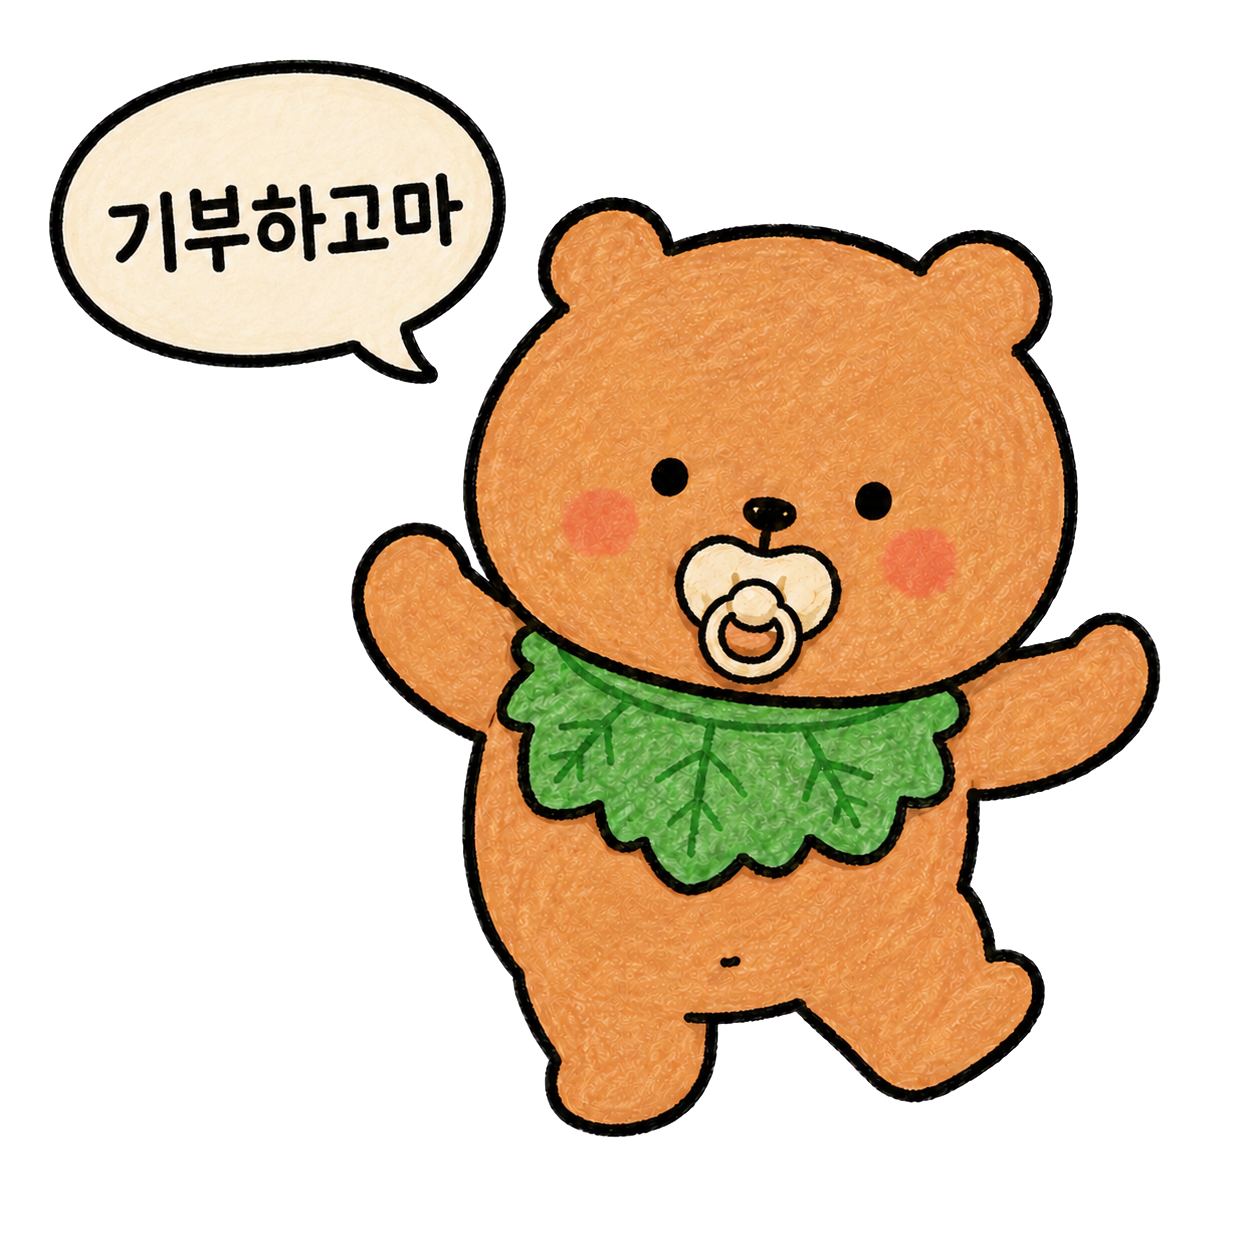
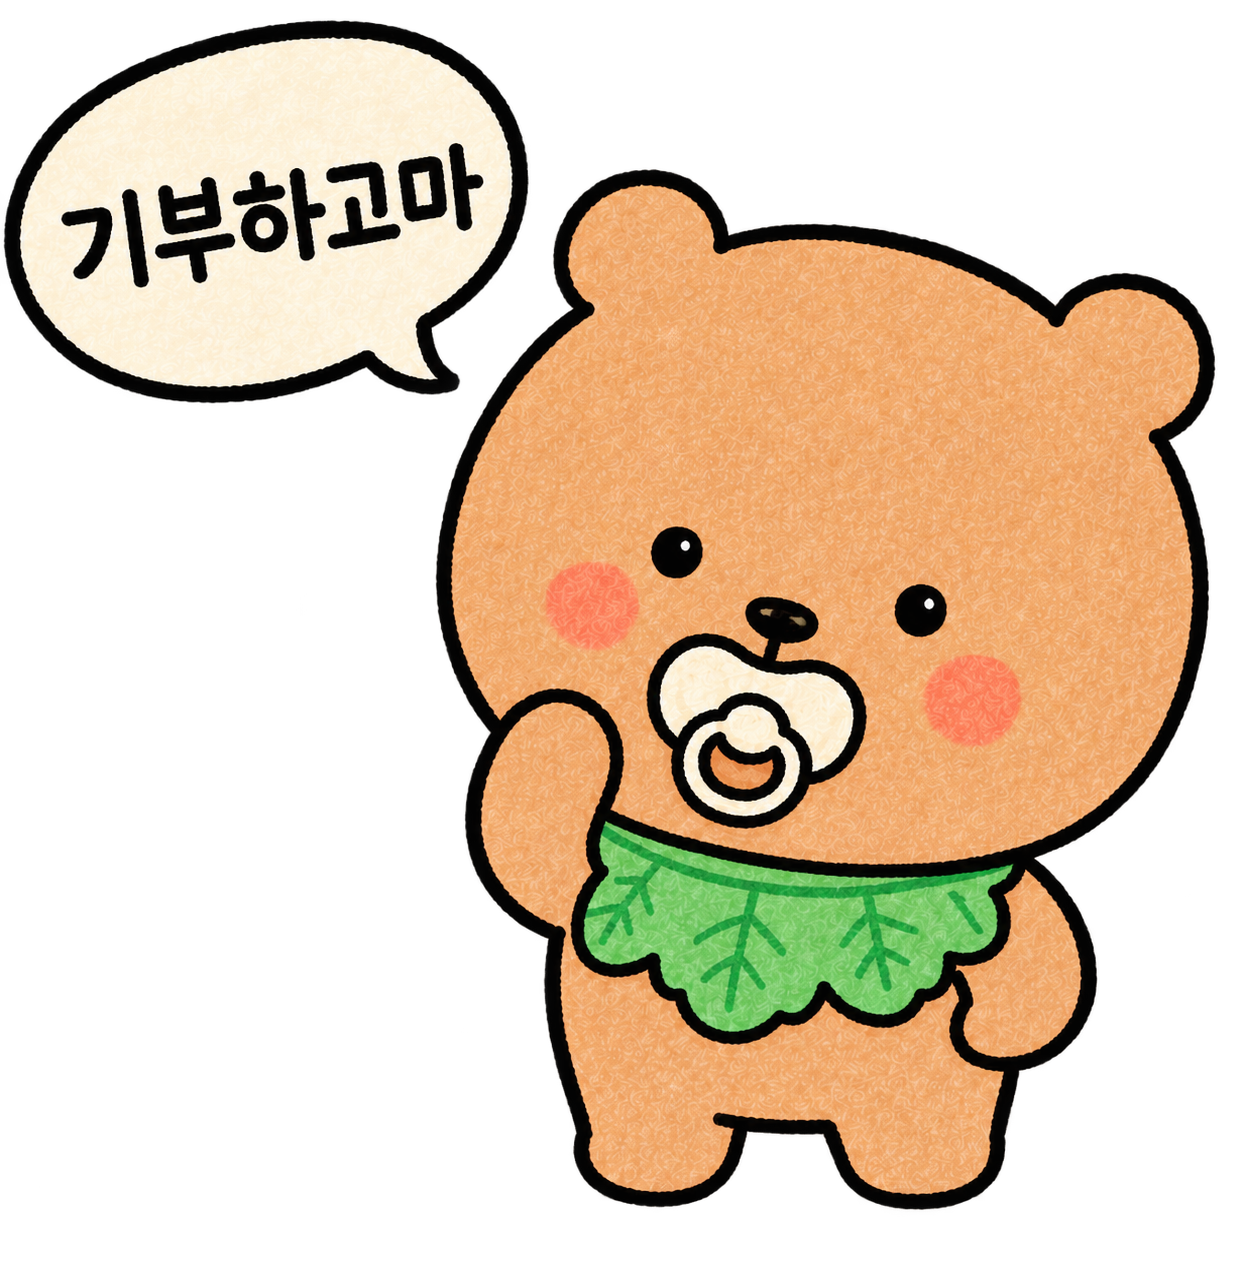
Expand daily donation character rotation

diff --git a/src/components/student/StudentDonationPage.tsx b/src/components/student/StudentDonationPage.tsx
@@ -1,4 +1,6 @@
 import type { RefObject } from 'react';
+import { getDailyDonationCharacterSource } from '../../lib/dailyDonationCharacter';
+import { getKoreanLocalDateKey } from '../../lib/studentEmotion';
 
 interface StudentDonationPageProps {
   totalAmount: number;
@@ -11,9 +13,10 @@ interface StudentDonationPageProps {
 
 export default function StudentDonationPage({ totalAmount, targetAmount, canDonate, isCompleted, triggerRef, onDonate }: StudentDonationPageProps) {
   const progress = targetAmount > 0 ? Math.min(100, (totalAmount / targetAmount) * 100) : 0;
+  const donationCharacterSource = getDailyDonationCharacterSource(getKoreanLocalDateKey());
   return (
     <section className="student-donation-page" aria-labelledby="student-donation-title">
-      <img src="/donation-bear.png?v=5" alt="학급 기부 캐릭터" />
+      <img src={donationCharacterSource} alt="학급 기부 캐릭터" />
       <div>
         <h2 id="student-donation-title">학급 기부</h2>
         <strong>{totalAmount} / {targetAmount}</strong>

diff --git a/src/lib/dailyDonationCharacter.test.ts b/src/lib/dailyDonationCharacter.test.ts
@@ -8,15 +8,16 @@ test('기부 캐릭터는 같은 날짜에 동일하게 유지된다', () => {
   const second = getDailyDonationCharacterSource('2026-08-12');
 
   assert.equal(first, second);
-  assert.match(first, /^\/donation-character-[1-3]\.png$/);
+  assert.match(first, /^\/donation-character-[1-4]\.png$/);
 });
 
-test('기부 캐릭터는 날짜에 따라 세 캐릭터를 순환한다', () => {
+test('기부 캐릭터는 날짜에 따라 네 캐릭터를 순환한다', () => {
   const sources = new Set([
     getDailyDonationCharacterSource('2026-08-12'),
     getDailyDonationCharacterSource('2026-08-13'),
     getDailyDonationCharacterSource('2026-08-14'),
+    getDailyDonationCharacterSource('2026-08-15'),
   ]);
 
-  assert.equal(sources.size, 3);
+  assert.equal(sources.size, 4);
 });

diff --git a/src/lib/dailyDonationCharacter.ts b/src/lib/dailyDonationCharacter.ts
@@ -2,6 +2,7 @@ const DONATION_CHARACTER_SOURCES = [
   '/donation-character-1.png',
   '/donation-character-2.png',
   '/donation-character-3.png',
+  '/donation-character-4.png',
 ] as const;
 
 export const getDailyDonationCharacterSource = (dateKey: string) => {

diff --git a/.omo/evidence/donation-characters/donation-characters-manual-qa.md b/.omo/evidence/donation-characters/donation-characters-manual-qa.md
@@ -1,0 +1,44 @@
+# Manual QA — donation plaza character replacement
+
+## Result
+
+Product visual result: **PASS** for the inspected render and configured rotation. Overall QA evidence result: **REVISE** because the supplied `donation-plaza.png` is a JPEG/JFIF file despite its `.png` extension; regenerate a valid PNG capture before treating the visual pass as final.
+
+No donation controls were clicked or invoked, and no live balances, bids, awards, or currency history were mutated.
+
+## `manualQa`
+
+### `surfaceEvidence`
+
+| scenario id | criterion reference | surface | exact invocation | verdict | artifactRefs |
+|---|---|---|---|---|---|
+| DON-PLAZA-001 | Character integrates into plaza without green background, clipping, or distortion | Web screenshot: donation plaza | `view_image(.omo/evidence/donation-characters/donation-plaza.png)` | PASS (product) | A1, A3, A7 |
+| DON-PLAZA-002 | Speech bubble remains present and readable/intact in the rendered character | Web screenshot: donation hotspot | `view_image(.omo/evidence/donation-characters/donation-plaza.png)`; `view_image(public/donation-character-{1,2,3,4}.png)` | PASS (bubble not clipped; small at capture size) | A1, A6, A7 |
+| DON-ROT-001 | Four character images are configured for deterministic daily rotation | Source + CLI-shaped regression test | `sed -n '1,100p' src/lib/dailyDonationCharacter.ts`; `node --import tsx --test src/lib/dailyDonationCharacter.test.ts` | PASS | A2, A4, A5, A7 |
+
+### `adversarialCases`
+
+| scenario id | criterion reference | adversarial class | expected behavior | verdict | artifactRefs |
+|---|---|---|---|---|---|
+| DON-ADV-001 | Transparent integration | Opaque/green background | Character PNGs expose transparency; plaza art remains visible behind/around the character | PASS | A1, A6, A7 |
+| DON-ADV-002 | Bounds safety | Edge clipping | No limb or speech-bubble pixels are cut by the donation hotspot/plaza bounds | PASS | A1, A3, A7 |
+| DON-ADV-003 | Asset fidelity | Aspect-ratio distortion | Character remains proportionally rendered with `object-fit: contain` | PASS | A1, A3, A6 |
+| DON-ADV-004 | Copy legibility | Tiny/clipped speech bubble | Bubble is fully present and text is visible; no glyphs are cut | PASS (small but intact) | A1, A6, A7 |
+| DON-ADV-005 | Rotation completeness | Missing fourth asset / unreachable source | Source array contains exactly `donation-character-1.png` through `-4.png`, and four date keys resolve to four sources | PASS | A2, A4, A5, A7 |
+| DON-ADV-006 | Capture hygiene | Extension/signature mismatch | Supplied screenshot must be a valid PNG if named `.png` | REVISE — file is JPEG/JFIF (`FF D8 ... JFIF`) | A1, A7 |
+
+## `artifactRefs`
+
+| id | kind | description | path |
+|---|---|---|---|
+| A1 | screenshot | Supplied rendered donation plaza capture inspected directly | `.omo/evidence/donation-characters/donation-plaza.png` |
+| A2 | source | Student plaza mounts the daily donation image inside the donation hotspot | `src/components/student/StudentPlaza.tsx:1` |
+| A3 | source | Plaza/hotspot sizing and `object-fit: contain` styling | `src/index.css:14879` |
+| A4 | source | Four-source deterministic daily rotation array | `src/lib/dailyDonationCharacter.ts:1` |
+| A5 | test | Same-day stability and four-date/four-source rotation tests | `src/lib/dailyDonationCharacter.test.ts:1` |
+| A6 | asset set | Four RGBA donation character assets | `public/donation-character-1.png`, `public/donation-character-2.png`, `public/donation-character-3.png`, `public/donation-character-4.png` |
+| A7 | transcript | Commands, alpha inspection, test output, and capture-signature evidence | `.omo/evidence/donation-characters/donation-characters-evidence.txt` |
+
+## Blocker / follow-up
+
+Re-capture the plaza as a real PNG (or rename the existing JPEG to `.jpg` and reference that exact path) so capture signature matches extension. No product visual correction is indicated by the inspected pixels.

diff --git a/.omo/evidence/donation-detail/donation-detail-manual-qa.md b/.omo/evidence/donation-detail/donation-detail-manual-qa.md
@@ -1,0 +1,43 @@
+# Donation daily-character manual QA
+
+Verdict: **PASS**
+
+Read-only visual QA was run against the two requested fresh surfaces. No donation button,
+navigation action, balance, bid, award, or currency state was mutated.
+
+## `manualQa`
+
+### `surfaceEvidence`
+
+| scenario id | criterion reference | surface | exact invocation | verdict | artifactRefs |
+|---|---|---|---|---|---|
+| DON-VIS-01 | C-DON-01, C-DON-02 | Student store plaza / donation hotspot | Opened `.omo/evidence/donation-detail/donation-plaza-current.jpg` with `view_image`; read-only crop inspection; cross-checked `src/components/student/StudentPlaza.tsx` and `src/lib/dailyDonationCharacter.ts`. | PASS | `A1`, `A3`, `A5` |
+| DON-VIS-02 | C-DON-01, C-DON-02 | Student store donation detail card | Opened `.omo/evidence/donation-detail/donation-detail-current.jpg` with `view_image`; read-only crop inspection; cross-checked `src/components/student/StudentDonationPage.tsx` and `src/lib/dailyDonationCharacter.ts`. | PASS | `A2`, `A3`, `A5` |
+| DON-VIS-03 | C-DON-03 | Daily selection and asset/render integrity | `node -e "...dateKey 2026-08-16..."`; `sips -g hasAlpha -g format -g pixelWidth -g pixelHeight public/donation-character-3.png`; `npm run lint`; `node --import tsx --test src/lib/dailyDonationCharacter.test.ts`. | PASS | `A3`, `A4`, `A5` |
+
+### `adversarialCases`
+
+| scenario id | criterion reference | adversarial class | expected behavior | verdict | artifactRefs |
+|---|---|---|---|---|---|
+| DON-ADV-01 | C-DON-03 | Green-background / alpha matte | Transparent asset must composite directly over plaza and white detail card with no green rectangle or halo. | PASS | `A1`, `A2`, `A3`, `A4` |
+| DON-ADV-02 | C-DON-03 | Crop, aspect-ratio, or distortion | Character and speech bubble must remain fully visible and proportionally rendered in both surfaces. | PASS | `A1`, `A2`, `A3`, `A5` |
+| DON-ADV-03 | C-DON-03 | CJK speech-bubble precision | `기부하고마` must remain legible as one intact phrase; no orphaned glyphs, tofu, or clipped baseline. | PASS | `A1`, `A2`, `A3` |
+| DON-ADV-04 | C-DON-02 | Legacy asset regression | Donation detail must use the shared daily source, not `/donation-bear.png`. | PASS | `A2`, `A3`, `A5` |
+
+### `artifactRefs`
+
+| id | kind | description | path |
+|---|---|---|---|
+| A1 | screenshot | Fresh plaza capture with daily character in donation hotspot (938×703 JPEG). | `.omo/evidence/donation-detail/donation-plaza-current.jpg` |
+| A2 | screenshot | Fresh donation detail capture with daily character and speech bubble (938×703 JPEG). | `.omo/evidence/donation-detail/donation-detail-current.jpg` |
+| A3 | audit | Capture, date-selection, alpha, source-reference, and non-mutating check log. | `.omo/evidence/donation-detail/donation-detail-visual-audit.txt` |
+| A4 | source-asset | Current selected daily asset; RGBA PNG with alpha (1243×1265). | `public/donation-character-3.png` |
+| A5 | source | Shared daily selection/rendering implementation and tests. | `src/lib/dailyDonationCharacter.ts`, `src/components/student/StudentPlaza.tsx`, `src/components/student/StudentDonationPage.tsx`, `src/lib/dailyDonationCharacter.test.ts` |
+
+## Evidence summary
+
+For `2026-08-16`, the helper deterministically selects `donation-character-3.png`. Both
+fresh captures show that same standing bear with the intact `기부하고마` bubble. The
+asset has alpha, the rendered pixels show no green matte, and neither surface shows
+clipping or distortion. The detail JSX uses the shared helper and contains no legacy
+`donation-bear` reference.
